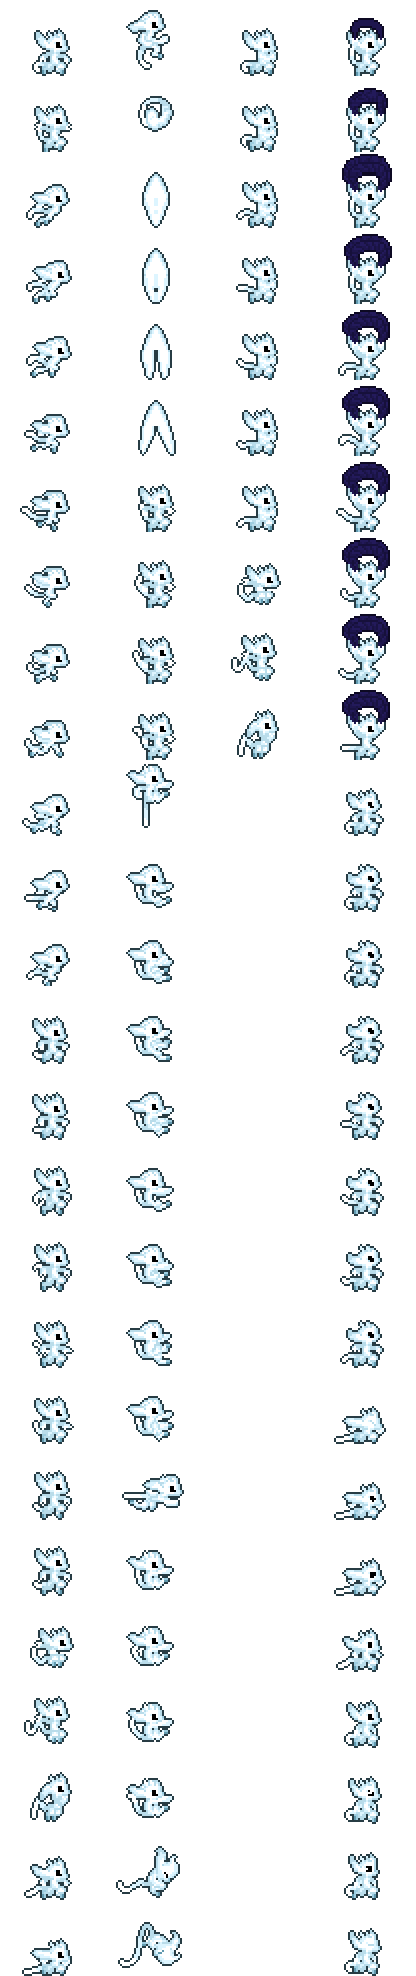
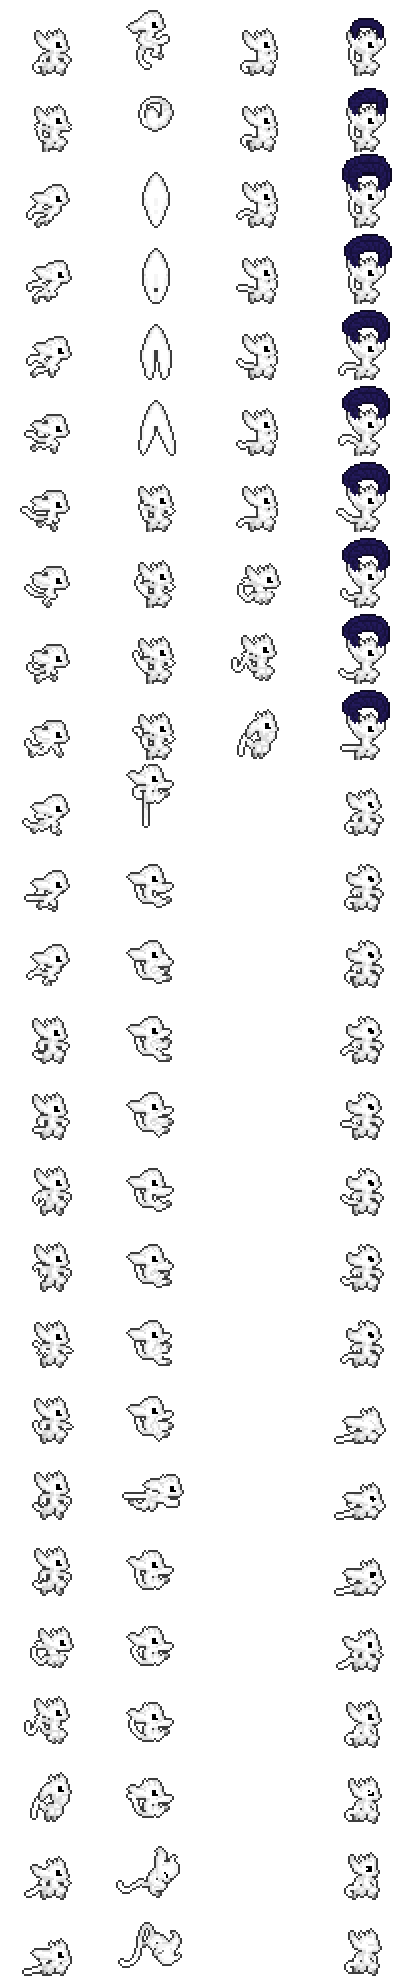
Add color change command

diff --git a/ModPlayer.cs b/ModPlayer.cs
@@ -284,6 +284,18 @@ namespace OriMod
       return tile;
     }
 
+    private Color _spriteColor = Color.LightCyan;
+    internal Color SpriteColor {
+      get {
+        return _spriteColor;
+      }
+      set {
+        if (value != _spriteColor) {
+          doNetUpdate = true;
+        }
+        _spriteColor = value;
+      }
+    }
     #endregion
     
     // basic sound playing method, with paths starting after NewSFX in the file structure
@@ -1183,31 +1195,20 @@ namespace OriMod
       Vector2 position = drawPlayer.position;
       dInfo = drawInfo;
       Texture2D spriteTexture = mod.GetTexture("PlayerEffects/OriPlayer");
-      Color spriteColor = Color.White;
-      // For integrity and privacy purposes, SecretClass.cs is being kept private
-      // If you are getting build errors, it is due to not having SecretClass.cs.
-      // In that case, comment out the below line
-      SecretClass.SetPlayerColor(oPlayer, out spriteColor, out spriteTexture);
       
       SpriteEffects effect = SpriteEffects.None;
 
       if (drawPlayer.direction == -1) {
         effect = SpriteEffects.FlipHorizontally;
       }
-
-      DrawData data = new DrawData(
-        spriteTexture,
-        new Vector2(
+      Vector2 pos = new Vector2(
           (drawPlayer.position.X - Main.screenPosition.X) + 10,
           (drawPlayer.position.Y - Main.screenPosition.Y) + 8
-        ),
-        new Rectangle(
-          (int)(oPlayer.AnimFrame.X),
-          (int)(oPlayer.AnimFrame.Y), 104, 76),
-        spriteColor,
-        drawPlayer.direction * oPlayer.AnimRads,
-        new Vector2(52, 38), 1, effect, 0
       );
+      Rectangle rect = new Rectangle((int)(oPlayer.AnimFrame.X), (int)(oPlayer.AnimFrame.Y), 104, 76);
+      Vector2 orig = new Vector2(52, 38);
+      
+      DrawData data = new DrawData(spriteTexture, pos, rect, oPlayer.SpriteColor, drawPlayer.direction * oPlayer.AnimRads, orig, 1, effect, 0);
       data.position += oPlayer.Offset(oPlayer);
       Main.playerDrawData.Add(data);
       // public DrawData(Texture2D texture, Vector2 position, Rectangle? sourceRect, Color color, float rotation, Vector2 origin, float scale, SpriteEffects effect, int inactiveLayerDepth);
@@ -1227,30 +1228,7 @@ namespace OriMod
       if (oPlayer.TransformTimer > 236) { // Transform Start
         float t = oPlayer.TransformTimer - 235;
         if (t > 0) {
-          if (t > 390) {
-            y = 0;
-          }
-          else if (t > 330) {
-            y = 1;
-          }
-          else if (t > 270) {
-            y = 2;
-          }
-          else if (t > 150) {
-            y = 3;
-          }
-          else if (t > 110) {
-            y = 4;
-          }
-          else if (t > 70) {
-            y = 5;
-          }
-          else if (t > 30) {
-            y = 6;
-          }
-          else {
-            y = 7;
-          }
+          y = t > 390 ? 0 : t > 330 ? 1 : t > 270 ? 2 : t > 150 ? 3 : t > 110 ? 4 : t > 70 ? 5 : t > 30 ? 6 : 7;
         }
       }
       DrawData data = new DrawData(

diff --git a/Commands/SetColor.cs b/Commands/SetColor.cs
@@ -1,0 +1,50 @@
+using Microsoft.Xna.Framework;
+using Terraria;
+using Terraria.ModLoader;
+
+namespace OriMod.Commands {
+  public class SetColor : ModCommand
+  {
+    public override string Command
+      => "oricolor";
+
+    public override string Usage
+      => "/oricolor <r> <g> <b> [a]" +
+         "\nSets the color of your Ori sprite. Accepted values between 0 and 255";
+    public override string Description => "Set the color of your Ori sprite";
+
+    public override CommandType Type => CommandType.Chat;
+
+
+    public override void Action(CommandCaller caller, string input, string[] args) {
+      OriPlayer oPlayer = caller.Player.GetModPlayer<OriPlayer>();
+      if (args.Length == 0) {
+        Main.NewText("Usage: " + Usage);
+      }
+      if (args.Length == 1) {
+        string lower = args[0].ToLower();
+        if (lower == "clear" || lower == "reset") {
+          oPlayer.SpriteColor = Color.LightCyan;
+          return;
+        }
+      }
+      if (args.Length != 3) {
+        throw new UsageException("Expected 3 arguments, got " + args.Length);
+      }
+      int r = 255;
+      int g = 255;
+      int b = 255;
+      int a = 255;
+      if (!int.TryParse(args[0], out r)) {
+        throw new UsageException("Expected a number, got " + args[0]);
+      }
+      if (!int.TryParse(args[1], out g)) {
+        throw new UsageException("Expected a number, got " + args[1]);
+      }
+      if (!int.TryParse(args[2], out b)) {
+        throw new UsageException("Expected a number, got " + args[2]);
+      }
+      oPlayer.SpriteColor = new Color(r, g, b, a);
+    }
+  }
+}

diff --git a/OriPacketHandler.cs b/OriPacketHandler.cs
@@ -1,4 +1,4 @@
-using Microsoft.Xna.Framework;
+using Microsoft.Xna.Framework;
 using System.IO;
 using Terraria;
 using Terraria.ID;
@@ -36,9 +36,8 @@ namespace OriMod {
       flags[2] = fromPlayer.Transforming;
       flags[3] = fromPlayer.UnrestrictedMovement;
       packet.Write((byte)flags);
-      if (fromPlayer.Transforming) {
-        packet.Write((short)fromPlayer.TransformTimer);
-      }
+      if (flags[2]) packet.Write((short)fromPlayer.TransformTimer);
+      packet.WriteRGB(fromPlayer.SpriteColor);
 
       packet.Send(toWho, fromWho);
     }
@@ -50,16 +49,15 @@ namespace OriMod {
       bool flashing = flags[1];
       bool transforming = flags[2];
       bool unrestrictedMovement = flags[3];
-      short transformTimer = 0;
-      if (transforming) {
-        transformTimer = r.ReadInt16();
-      }
+      short transformTimer = flags[2] ? r.ReadInt16() : (short)0;
+      Color spriteColor = r.ReadRGB();
 
       fromPlayer.OriSet = oriSet;
       fromPlayer.Flashing = flashing;
       fromPlayer.Transforming = transforming;
       fromPlayer.UnrestrictedMovement = unrestrictedMovement;
       fromPlayer.TransformTimer = transformTimer;
+      fromPlayer.SpriteColor = spriteColor;
       
       if (Main.netMode == NetmodeID.Server) {
 				SendOriState(-1, fromWho);
